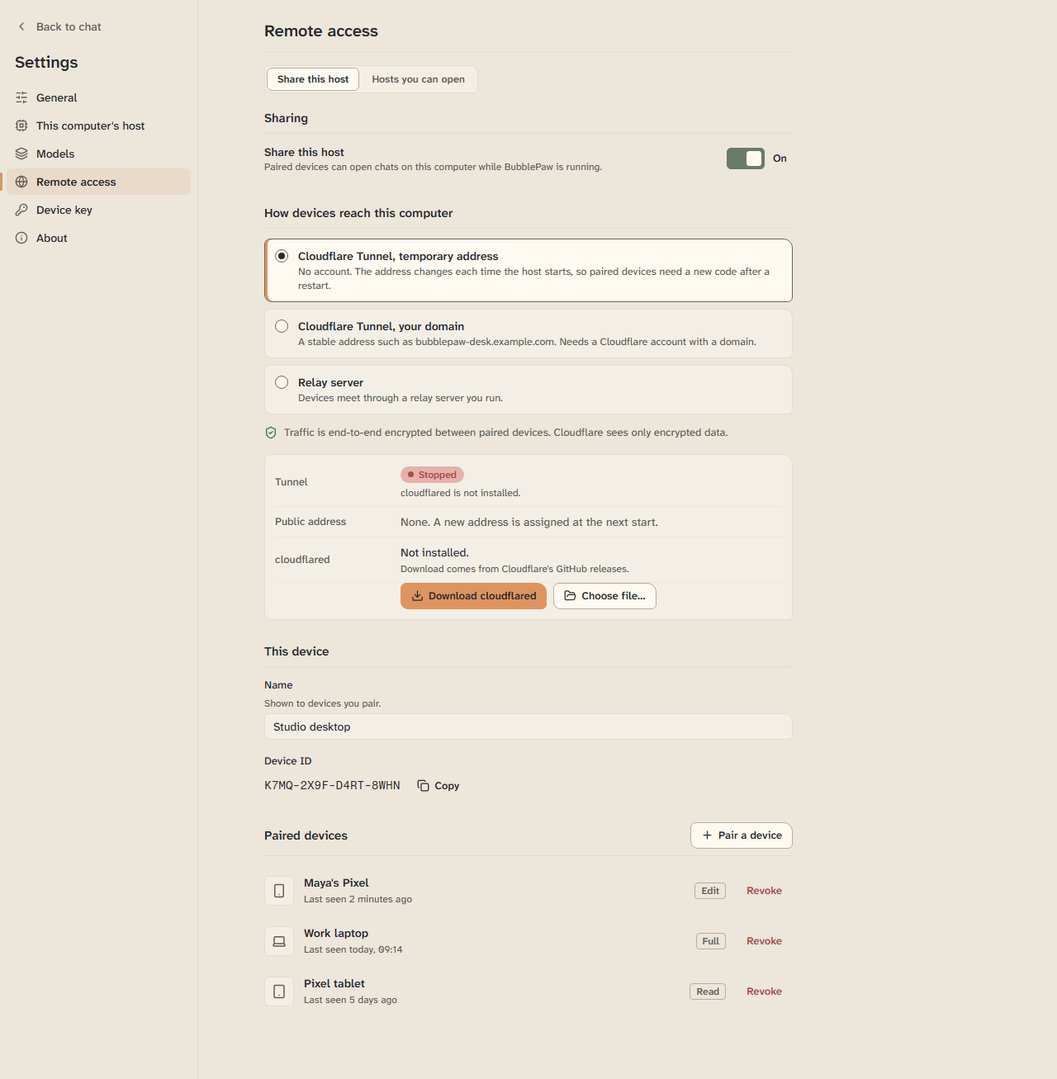
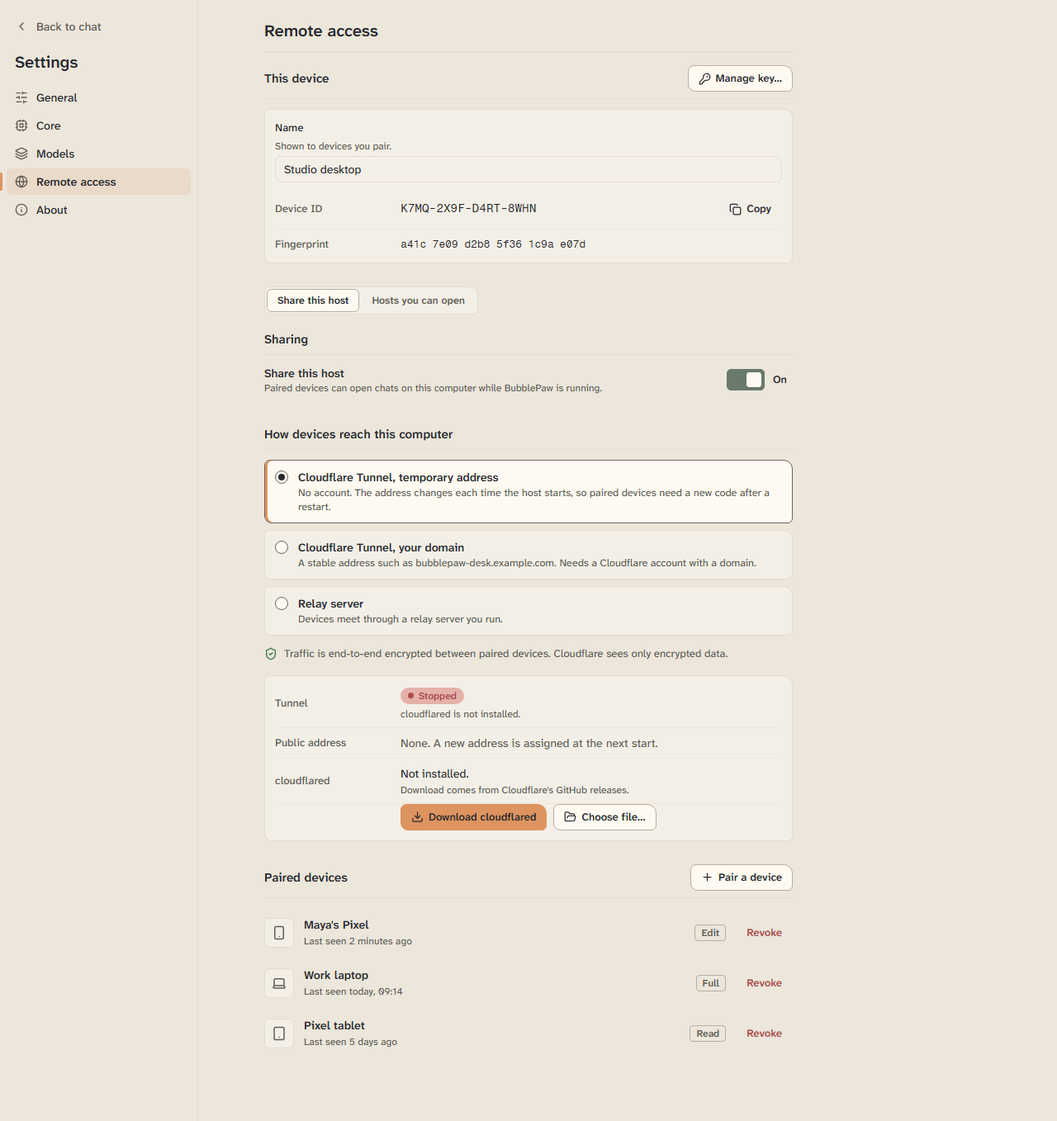
Mockups: review revision (models, core, key under remote access, licences) and phone chats push navigation

diff --git a/design/remote-and-settings/app.js b/design/remote-and-settings/app.js
@@ -10,8 +10,8 @@
     const [k, v] = kv.split('=');
     if (k && v !== undefined) H[k] = decodeURIComponent(v);
   });
-  const S = Object.assign({ screen: 'settings', size: 'desktop', page: 'general', ppage: 'list', tab: 'share', still: '0', tall: '0', chrome: '1' },
-    ...['screen', 'size', 'page', 'ppage', 'tab', 'still', 'tall', 'chrome'].map((k) => (k in H ? { [k]: H[k] } : {})));
+  const S = Object.assign({ screen: 'settings', size: 'desktop', page: 'general', ppage: 'list', tab: 'share', sub: '', still: '0', tall: '0', chrome: '1' },
+    ...['screen', 'size', 'page', 'ppage', 'tab', 'sub', 'still', 'tall', 'chrome'].map((k) => (k in H ? { [k]: H[k] } : {})));
   const SCREENS = [
     ['settings', '1', 'Settings'], ['share', '2', 'Share this host'], ['pair', '3', 'Pairing, host'],
     ['add', '4', 'Pairing, phone'], ['phone', '5', 'Phone chat'], ['switcher', '6', 'Host switcher'],
@@ -29,8 +29,9 @@
 
   const M = {
     pref: H.theme || 'light', turn: 'closed', login: false,
-    f: { binary: '/opt/bubblepaw/bubblepaw', workspace: '/home/maya/projects/bubblepaw-base', data: '/home/maya/.local/share/bubblepaw-desktop/data', args: '', relay: 'wss://relay.example.com', hostname: 'bubblepaw-desk', zone: 'example.com', token: '', devname: 'Studio desktop', pairName: 'Pixel 8', addCode: '', pass1: '', pass2: '', keyFile: '', keySecret: '', apiKey: '' },
-    hostState: 'running', hostSaved: null,
+    f: { binary: '/opt/bubblepaw/bubblepaw', workspace: '/home/maya/projects/bubblepaw-base', data: '/home/maya/.local/share/bubblepaw-desktop/data', args: '', relay: 'wss://relay.example.com', hostname: 'bubblepaw-desk', zone: 'example.com', token: '', devname: 'Studio desktop', licq: '', pairName: 'Pixel 8', addCode: '', pass1: '', pass2: '', keyFile: '', keySecret: '', apiKey: '' },
+    hostState: 'running', hostSaved: null, coreMode: 'bundled', other: false, autoUpd: true, licOpen: new Set(),
+    u: { app: { cur: '0.1.0', latest: null, st: 'idle' }, core: { cur: '0.3.0', latest: null, st: 'idle' } },
     on: H.on !== '0', reach: H.reach || 'temp', cf: { signed: H.cf !== 'signedout' && H.cf !== 'token', tokenOpen: H.cf === 'token', busy: false, account: 'maya@example.com' },
     cfd: H.cfd !== 'missing', cfdBusy: false, upd: 'idle', ver: '2026.10.1',
     tunnel: H.tunnel === 'starting' ? 'starting' : 'connected', fail: H.tunnel === 'stopped', addr: { temp: 'tidy-violet-harbor-7f3a.trycloudflare.com' },
@@ -51,7 +52,7 @@
     ],
     def: 'deepseek-v4.1-flash',
     dlg: null, add: { step: 1 }, addDone: false, back: 'phone',
-    sheet: H.sheet !== '0', sw: H.sw !== '0', pop: H.pop !== '0', dsel: { h: 'local', w: 'bubblepaw-base' }, active: 'h1', ws: 'bubblepaw-base',
+    pview: H.pview === 'chat' ? 'chat' : 'list', sheet: H.sheet === '1', sw: H.sw !== '0', pop: H.pop !== '0', dsel: { h: 'local', w: 'bubblepaw-base' }, active: H.active || 'h1', ws: 'bubblepaw-base',
     fail2: false,
   };
   if (S.screen === 'pair') M.dlg = { type: 'pair', step: +(H.step || 1), left: 292, code: 'K7M2Q-9XFD4', prof: 'edit' };
@@ -94,14 +95,14 @@
 
   /* ---------- settings pages ---------- */
   const NAV = [
-    ['general', 'General', 'sliders-horizontal', ''], ['host', "This computer's host", 'cpu', 'desktop'], ['models', 'Models', 'layers', ''],
-    ['remote', 'Remote access', 'globe', ''], ['key', 'Device key', 'key-round', ''], ['about', 'About', 'info', ''],
+    ['general', 'General', 'sliders-horizontal', ''], ['host', 'Core', 'cpu', 'desktop'], ['models', 'Models', 'layers', ''],
+    ['remote', 'Remote access', 'globe', ''], ['about', 'About', 'info', ''],
   ];
   const phoneSub = {
     general: () => ({ system: 'System theme', light: 'Light theme', dark: 'Dark theme' }[M.pref]),
     models: () => `Default ${M.def}`,
     remote: () => `${M.hosts.length} host${M.hosts.length === 1 ? '' : 's'}, ${M.hosts.filter((h) => h.online).length} online`,
-    key: () => `ID ${M.key.id}`, about: () => 'Version 0.1.0',
+    about: () => `BubblePaw ${M.u.app.cur}`,
   };
 
   function pageGeneral(p) {
@@ -111,26 +112,30 @@
       (p ? '' : sec('Startup', `<div class="rowline"><div class="grow"><div class="t">Open at login</div><div class="s">BubblePaw starts with this computer. Remote access only works while it is running.</div></div>${sw(M.login, 'Open at login', 'login')}</div>`));
   }
   function pageHost() {
-    const run = M.hostState === 'running';
-    return sec('BubblePaw host',
-      `<div class="rowline" style="padding-top:0"><div class="grow"><div class="t">Status</div><div class="s mono">bubblepaw 0.3.0 · protocol 0.1</div></div>${run ? pill('Running', 'ok') : pill('Restarting', 'attn')}${btn('Restart', { icon: 'refresh-cw', act: 'hostRestart', disabled: !run })}</div>` +
-      field('Binary', 'Path to the bubblepaw executable.', 'binary') + field('Workspace', 'The directory the agent works in.', 'workspace') +
-      field('Data directory', "Where this app's chats are stored. Do not share it with another BubblePaw host.", 'data') +
-      field('Extra host arguments', "Added to the host's command line, for example --provider demo. Optional.", 'args', { ph: 'None' }) +
-      `<div class="actions">${btn('Save and restart', { kind: 'primary', act: 'hostRestart', disabled: !run })}${btn('Cancel', { act: 'hostCancel' })}${M.hostSaved ? `<span class="hint">${M.hostSaved}</span>` : ''}</div>`);
+    const run = M.hostState === 'running', custom = M.coreMode === 'custom';
+    return sec('Core',
+      `<div class="rowline" style="padding-top:0"><div class="grow"><div class="t">Status</div><div class="s mono">bubblepaw ${M.u.core.cur} · protocol 0.1</div></div>${run ? pill('Running', 'ok') : pill('Restarting', 'attn')}${btn('Restart', { icon: 'refresh-cw', act: 'hostRestart', disabled: !run })}</div>`) +
+      sec('Binary',
+        `<div role="radiogroup" aria-label="Binary">
+          <button class="opt" role="radio" aria-checked="${!custom}" ${A('coreMode', 'bundled')}><span class="rd"></span><span><div class="t">Bundled with BubblePaw</div><div class="s">Version <span class="mono">${M.u.core.cur}</span>. It updates with the app.</div></span></button>
+          <button class="opt" role="radio" aria-checked="${custom}" ${A('coreMode', 'custom')}><span class="rd"></span><span><div class="t">Custom binary</div><div class="s">Run a bubblepaw executable you installed yourself.</div></span></button>
+          ${custom ? `<div class="subpanel"><div class="field"><label for="f-binary">Path to the bubblepaw executable</label><div class="affix"><input id="f-binary" class="input" data-k="binary" value="${M.f.binary}"><button class="btn suffixbtn" ${A('browse')}>${ic('folder-open', 15)}Browse…</button></div></div></div>` : ''}</div>`) +
+      sec('Settings',
+        field('Data directory', "Where this app's chats are stored. Do not share it with another BubblePaw host.", 'data') +
+        field('Extra arguments', "Added to the host's command line, for example --provider demo. Optional.", 'args', { ph: 'None' }) +
+        `<div class="actions">${btn('Save and restart', { kind: 'primary', act: 'hostRestart', disabled: !run })}${btn('Cancel', { act: 'hostCancel' })}${M.hostSaved ? `<span class="hint">${M.hostSaved}</span>` : ''}</div>`);
   }
   function pageModels() {
-    const prov = M.providers.map((p) => {
-      const rows = p.models.map((m) => `<div class="rowline"><div class="grow mono" style="font-size:13.6px">${m}</div>${M.def === m ? `<span class="pill ok">Default</span>` : btn('Make default', { act: 'def', arg: m, disabled: !p.key })}</div>`).join('');
-      return `<div style="margin-bottom:16px"><div class="rowline" style="border:0;padding-bottom:2px"><div class="grow"><span class="t">${p.name}</span> <span class="mono muted" style="font-size:12px">${p.kind}</span> ${p.key ? '' : pill('Key missing', 'attn')}</div>${btn(p.key ? 'Edit key' : 'Add key', { act: 'keyDlg', arg: p.name })}</div>
-        <div class="hint mono" style="margin-bottom:4px">${p.url}</div>${p.key ? '' : '<div class="hint">The host did not find a key for this provider. Add a key to use its models.</div>'}${rows}</div>`;
+    const cards = M.providers.map((p) => {
+      const rows = p.models.map((m) => `<div class="mrow"><div class="grow mono" style="font-size:13.6px">${m}</div><div class="mcol">${M.def === m ? pill('Default', 'ok') : `<button class="btn quiet mk" ${A('def', m)} ${p.key ? '' : 'disabled'}>Make default</button>`}</div></div>`).join('');
+      return `<div class="pcard"><div class="pcard-h"><div class="grow"><div><span class="t">${p.name}</span> <span class="mono muted" style="font-size:12px">${p.kind}</span></div><div class="hint mono">${p.url}</div>${p.key ? '' : '<div class="hint">Add a key to use these models.</div>'}</div>${p.key ? pill('Key set', 'ok') : pill('No key', 'attn')}${btn(p.key ? 'Edit key' : 'Add key', { act: 'keyDlg', arg: p.name })}</div>${rows}</div>`;
     }).join('');
-    return sec('Default model', `<div class="field"><div class="hint">New runs in every chat use this model. A run in progress keeps its own.</div><div class="mono" style="font-size:15px">${M.def}</div></div>`) + sec('Providers', prov);
+    return sec('Default model', `<div class="field"><div class="hint">New runs in every chat use this model. A run in progress keeps its own.</div><div class="mono" style="font-size:15px">${M.def}</div></div>`) + sec('Providers', cards);
   }
   function pageKey() {
     const n = M.devices.length, hn = M.hosts.length;
     const cons = n + hn ? `All ${n} paired device${n === 1 ? '' : 's'} and ${hn} host${hn === 1 ? '' : 's'} you can open stop recognising this device, and each pairing has to be done again.` : 'This device has no pairings yet, so nothing else breaks.';
-    return sec('This device',
+    return sec('Current key',
       `<div class="card"><div class="kv"><span class="k">Device ID</span><span class="v mono">${M.key.id}</span>${btn('Copy', { icon: 'copy', cls: 'quiet', act: 'copy' })}</div>
         <div class="kv"><span class="k">Fingerprint</span><span class="v mono" style="font-size:12.5px">${M.key.fp}</span><span></span></div></div>`) +
       sec('Key file',
@@ -138,9 +143,61 @@
          <div class="rowline"><div class="grow"><div class="t">Import key file</div><div class="s">Replaces this device's key. Existing pairings stop working.</div></div>${btn('Import…', { icon: 'folder-open', act: 'dlg', arg: 'import' })}</div>`) +
       sec('Regenerate', `<div class="notice danger">${ic('circle-alert', 16)}<div>Regenerating creates a new device ID. ${cons}</div></div>${btn('Regenerate device key…', { kind: 'danger', icon: 'trash-2', act: 'dlg', arg: 'regen' })}`);
   }
+  function deviceCard() {
+    return sec('This device', `<div class="card" style="padding-top:12px">${field('Name', 'Shown to devices you pair.', 'devname', { sans: true })}
+      <div class="kv" style="padding-top:0"><span class="k">Device ID</span><span class="v mono">${M.key.id}</span>${btn('Copy', { icon: 'copy', cls: 'quiet', act: 'copy' })}</div>
+      <div class="kv"><span class="k">Fingerprint</span><span class="v mono" style="font-size:12.5px">${M.key.fp}</span><span></span></div></div>`, btn('Manage key…', { icon: 'key-round', act: 'sub', arg: 'key' }));
+  }
+  const backRow = (label) => (ph() ? '' : `<div style="margin-bottom:16px">${btn(label, { icon: 'chevron-left', cls: 'quiet', act: 'subBack' })}</div>`);
+
+  /* About: updates */
+  function updRow(k) {
+    const u = M.u[k], label = k === 'app' ? 'BubblePaw' : 'Core';
+    if (k === 'core' && M.coreMode === 'bundled') {
+      return `<div class="rowline"><div class="grow"><div class="t">${label} <span class="mono muted" style="font-weight:400">${u.cur}</span></div><div class="s">Bundled with BubblePaw. It updates with the app.</div></div></div>`;
+    }
+    let status;
+    if (u.st === 'idle') status = 'Latest version not checked.';
+    else if (u.st === 'checking') status = `${ic('loader', 13, 'spin')} Checking GitHub releases…`;
+    else if (u.st === 'updating') status = `${ic('loader', 13, 'spin')} Updating to ${u.latest}…`;
+    else if (u.st === 'updated') status = `Updated to ${u.cur}. ${k === 'app' ? 'Restart BubblePaw to finish.' : 'Restart Core to use it.'}`;
+    else status = u.latest === u.cur ? 'Up to date.' : `Latest version <span class="mono">${u.latest}</span>.`;
+    const newer = u.latest && u.latest !== u.cur && u.st === 'checked';
+    const busy = u.st === 'checking' || u.st === 'updating';
+    return `<div class="rowline"><div class="grow"><div class="t">${label} <span class="mono muted" style="font-weight:400">${u.cur}</span></div><div class="s">${status}</div></div>${btn('Check for updates', { act: 'chk', arg: k, disabled: busy })}${newer ? btn(`Update to ${u.latest}`, { kind: 'primary', act: 'upg', arg: k }) : ''}</div>`;
+  }
   function pageAbout() {
-    return sec('Versions', `<div class="card"><div class="kv"><span class="k">BubblePaw</span><span class="v mono">0.1.0+1</span><span></span></div><div class="kv"><span class="k">Agent kit</span><span class="v mono">v0.15.7</span><span></span></div><div class="kv"><span class="k">Host</span><span class="v mono">bubblepaw 0.3.0</span><span></span></div><div class="kv"><span class="k">Protocol</span><span class="v mono">0.1</span><span></span></div></div>`) +
-      sec('Licences', `<div class="rowline"><div class="grow"><div class="t">Open source licences</div><div class="s">Fonts, icons and packages bundled with this app.</div></div>${btn('View', { icon: 'chevron-right', act: 'dlg', arg: 'licences' })}</div>`);
+    if (S.sub === 'licences') return backRow('About') + pageLicences();
+    return sec('Updates',
+      `<div class="rowline" style="padding-top:0"><div class="grow"><div class="t">Check for updates automatically</div><div class="s">Looks at GitHub releases when BubblePaw starts.</div></div>${sw(M.autoUpd, 'Check for updates automatically', 'autoUpd')}</div>${updRow('app')}${updRow('core')}`) +
+      sec('Versions', `<div class="card"><div class="kv"><span class="k">Agent kit</span><span class="v mono">v0.15.7</span><span></span></div><div class="kv"><span class="k">Protocol</span><span class="v mono">0.1</span><span></span></div></div>`) +
+      sec('Licences', `<div class="rowline"><div class="grow"><div class="t">Open source licences</div><div class="s">Packages, crates, fonts and icons bundled with this app.</div></div>${btn('View', { icon: 'chevron-right', act: 'sub', arg: 'licences' })}</div>`);
+  }
+
+  /* Licences. Sample entries only: the real list is generated at build time
+     (Flutter's LicenseRegistry for the app packages and fonts, cargo-about for the Core crates). */
+  const T_BSD3 = (c) => `${c}\n\nRedistribution and use in source and binary forms, with or without modification, are permitted provided that the following conditions are met:\n\n1. Redistributions of source code must retain the above copyright notice, this list of conditions and the following disclaimer.\n2. Redistributions in binary form must reproduce the above copyright notice, this list of conditions and the following disclaimer in the documentation and/or other materials provided with the distribution.\n3. Neither the name of the copyright holder nor the names of its contributors may be used to endorse or promote products derived from this software without specific prior written permission.\n\nTHIS SOFTWARE IS PROVIDED BY THE COPYRIGHT HOLDERS AND CONTRIBUTORS "AS IS" AND ANY EXPRESS OR IMPLIED WARRANTIES ARE DISCLAIMED. See the full text in the package.`;
+  const T_MIT = (c) => `${c}\n\nPermission is hereby granted, free of charge, to any person obtaining a copy of this software and associated documentation files (the "Software"), to deal in the Software without restriction, including without limitation the rights to use, copy, modify, merge, publish, distribute, sublicense, and/or sell copies of the Software, and to permit persons to whom the Software is furnished to do so, subject to the following conditions:\n\nThe above copyright notice and this permission notice shall be included in all copies or substantial portions of the Software.\n\nTHE SOFTWARE IS PROVIDED "AS IS", WITHOUT WARRANTY OF ANY KIND.`;
+  const T_OFL = (c) => `${c}\n\nThis Font Software is licensed under the SIL Open Font License, Version 1.1. This license is copied below, and is also available with a FAQ at https://openfontlicense.org\n\nPREAMBLE: The goals of the Open Font License (OFL) are to stimulate worldwide development of collaborative font projects, to support the font creation efforts of academic and linguistic communities, and to provide a free and open framework in which fonts may be shared and improved in partnership with others. See the full text in fonts/licenses.`;
+  const T_ISC = 'ISC License\n\nCopyright (c) for portions of Lucide are held by Cole Bemis 2013-2022 as part of Feather (MIT). All other copyright (c) for Lucide are held by Lucide Contributors 2022.\n\nPermission to use, copy, modify, and/or distribute this software for any purpose with or without fee is hereby granted, provided that the above copyright notice and this permission notice appear in all copies.\n\nTHE SOFTWARE IS PROVIDED "AS IS" AND THE AUTHOR DISCLAIMS ALL WARRANTIES WITH REGARD TO THIS SOFTWARE.';
+  const T_DUAL = (c) => `${c}\n\nLicensed under either of\n  Apache License, Version 2.0 (LICENSE-APACHE or http://www.apache.org/licenses/LICENSE-2.0)\n  MIT license (LICENSE-MIT or http://opensource.org/licenses/MIT)\nat your option.`;
+  const LICS = [
+    ['App packages', [['flutter', '3.41.0', 'BSD-3-Clause', T_BSD3('Copyright 2014 The Flutter Authors. All rights reserved.')], ['file_selector', '1.1.0', 'BSD-3-Clause', T_BSD3('Copyright 2013 The Flutter Authors. All rights reserved.')]]],
+    ['Core crates', [['snow', '0.9.6', 'Apache-2.0 OR MIT', T_DUAL('Copyright the snow contributors.')], ['serde', '1.0.219', 'Apache-2.0 OR MIT', T_DUAL('Copyright the serde contributors.')], ['rusqlite', '0.32.1', 'MIT', T_MIT('Copyright (c) the rusqlite contributors.')], ['tokio', '1.44.0', 'MIT', T_MIT('Copyright (c) Tokio Contributors.')]]],
+    ['Fonts', [['Atkinson Hyperlegible Next', '1.0', 'OFL-1.1', T_OFL('Copyright 2020 Braille Institute of America, Inc.')], ['Fragment Mono', '1.0', 'OFL-1.1', T_OFL('Copyright 2023 The Fragment Mono Project Authors.')], ['Bricolage Grotesque', '1.0', 'OFL-1.1', T_OFL('Copyright 2022 The Bricolage Grotesque Project Authors.')]]],
+    ['Icons', [['Lucide', '0.468.0', 'ISC', T_ISC]]],
+  ];
+  function pageLicences() {
+    const q = M.f.licq.trim().toLowerCase();
+    const groups = LICS.map(([g, items]) => {
+      const rows = items.filter(([n, v, l]) => !q || (n + ' ' + l + ' ' + g).toLowerCase().includes(q));
+      if (!rows.length) return '';
+      return `<section class="sec"><h2><span>${g}</span><span class="muted mono" style="font-size:12px;font-weight:400">${rows.length}</span></h2>${rows.map(([n, v, l, t]) => {
+        const id = g + '/' + n, open = M.licOpen.has(id);
+        return `<div class="lic"><button class="lic-h" aria-expanded="${open}" ${A('licToggle', id)}><span class="grow"><span class="t">${n}</span> <span class="mono muted" style="font-size:12px">${v}</span></span><span class="tag">${l}</span>${ic(open ? 'chevron-up' : 'chevron-down', 16)}</button>${open ? `<pre class="lictext">${t.replace(/&/g, '&amp;').replace(/</g, '&lt;')}</pre>` : ''}</div>`;
+      }).join('')}</section>`;
+    }).join('');
+    return `<div class="field"><label for="f-licq">Search</label><input id="f-licq" class="input sans" data-k="licq" value="${M.f.licq.replace(/"/g, '&quot;')}" placeholder="Package or licence"></div>${groups || '<div class="empty">No package or licence matches the search.</div>'}`;
   }
 
   function hostsList(p) {
@@ -198,31 +255,32 @@
     const opts = REACH.map(([v, ti, s]) => `<button class="opt" role="radio" aria-checked="${M.reach === v}" ${A('reach', v)}><span class="rd"></span><span><div class="t">${ti}</div><div class="s">${s}</div></span></button>` +
       (M.reach === v && v === 'domain' ? domainPanel() : '') +
       (M.reach === v && v === 'relay' ? `<div class="subpanel">${field('Relay address', '', 'relay')}</div>` : '')).join('');
-    return sec('Sharing', `<div class="rowline" style="padding-top:0"><div class="grow"><div class="t">Share this host</div><div class="s">${M.on ? 'Paired devices can open chats on this computer while BubblePaw is running.' : 'Nobody can reach this computer. Paired devices stay paired.'}</div></div>${sw(M.on, 'Share this host', 'on')}</div>`) +
+    return sec('Sharing', `<div class="rowline" style="padding-top:0"><div class="grow"><div class="t">Share this host</div><div class="s">${M.on ? 'Paired devices can open chats on this computer while BubblePaw is running.' : 'Nobody can reach this computer. Paired devices stay paired.'}</div></div>${sw(M.on, 'Share this host', 'on')}</div>${M.on && M.other ? `<div class="notice info">${ic('info', 16)}<div>Another BubblePaw host on this computer is already shared: device ID <span class="mono">T4WK-9HDB-2QXN-6MRE</span>, data directory <span class="mono">/var/lib/bubblepaw/data</span>. Devices paired with it can't open this app's chats.</div></div>` : ''}`) +
       sec('How devices reach this computer', `<div role="radiogroup" aria-label="How devices reach this computer">${opts}</div>
         <div class="consequence">${ic('shield-check', 16)}<span>${M.reach === 'relay' ? 'Traffic is end-to-end encrypted between paired devices. The relay sees only encrypted data.' : 'Traffic is end-to-end encrypted between paired devices. Cloudflare sees only encrypted data.'}</span></div>${statusBlock()}`) +
-      sec('This device', field('Name', 'Shown to devices you pair.', 'devname', { sans: true }) + `<div class="field"><label>Device ID</label><div class="actions"><span class="mono" style="font-size:14px">${M.key.id}</span>${btn('Copy', { icon: 'copy', cls: 'quiet', act: 'copy' })}</div></div>`) +
       sec('Paired devices', devRows(), btn('Pair a device', { kind: t.s !== 'stopped' ? 'primary' : '', icon: 'plus', act: 'startPair', disabled: !M.on }));
   }
   function pageRemote(p) {
-    if (p) return hostsList(true);
-    return `<div style="margin-bottom:20px">${seg([['share', 'Share this host'], ['hosts', 'Hosts you can open']], S.tab, 'tab')}</div>` + (S.tab === 'hosts' ? hostsList(false) : pageShare());
+    if (S.sub === 'key') return backRow('Remote access') + pageKey();
+    if (p) return deviceCard() + hostsList(true);
+    return deviceCard() + `<div style="margin-bottom:20px">${seg([['share', 'Share this host'], ['hosts', 'Hosts you can open']], S.tab, 'tab')}</div>` + (S.tab === 'hosts' ? hostsList(false) : pageShare());
   }
-  const pageBody = (p, phn) => ({ general: pageGeneral, host: pageHost, models: pageModels, remote: pageRemote, key: pageKey, about: pageAbout }[p])(phn);
+  const pageBody = (p, phn) => ({ general: pageGeneral, host: pageHost, models: pageModels, remote: pageRemote, about: pageAbout }[p])(phn);
 
+  const subTitle = () => (S.sub === 'key' ? 'Device key' : S.sub === 'licences' ? 'Licences' : '');
   function settingsDesktop() {
     const nav = NAV.map(([id, label, icon]) => `<button class="nav-item" ${S.page === id ? 'aria-current="page"' : ''} ${A('page', id)}>${ic(icon, 16)}${label}</button>`).join('');
     return `<div class="set-desk"><nav class="set-nav" aria-label="Settings"><button class="nav-item back" ${A('toChat')}>${ic('chevron-left', 16)}Back to chat</button><h1>Settings</h1>${nav}</nav>
-      <div class="set-main"><div class="set-col"><h1 class="pt">${NAV.find((n) => n[0] === S.page)[1]}</h1>${pageBody(S.page, false)}</div></div></div>`;
+      <div class="set-main"><div class="set-col"><h1 class="pt">${subTitle() || NAV.find((n) => n[0] === S.page)[1]}</h1>${pageBody(S.page, false)}</div></div></div>`;
   }
   function settingsPhone() {
     const p = S.ppage;
-    const head = (title, back) => `<div class="statusgap"></div><div class="phone-head"><button class="iconbtn" aria-label="${back ? 'Back to settings' : 'Back to chat'}" ${back ? A('ppage', 'list') : A('toChat')}>${ic('chevron-left', 22)}</button><h1>${title}</h1></div>`;
+    const head = (title, back) => `<div class="statusgap"></div><div class="phone-head"><button class="iconbtn" aria-label="${back ? (S.sub ? 'Back' : 'Back to settings') : 'Back to chat'}" ${back ? (S.sub ? A('subBack') : A('ppage', 'list')) : A('toChat')}>${ic('chevron-left', 22)}</button><h1>${title}</h1></div>`;
     if (p === 'list') {
       const rows = NAV.filter((n) => n[3] !== 'desktop').map(([id, label, icon]) => `<button class="nav-row" ${A('ppage', id)}>${ic(icon, 20)}<span class="grow"><div class="t">${label}</div><div class="s">${phoneSub[id]()}</div></span>${ic('chevron-right', 18)}</button>`).join('');
       return `<div class="phone-col">${head('Settings', false)}<div class="phone-body" style="padding-top:8px">${rows}</div><div class="homebar"></div></div>`;
     }
-    return `<div class="phone-col">${head(NAV.find((n) => n[0] === p)[1], true)}<div class="phone-body">${pageBody(p, true)}</div><div class="homebar"></div></div>`;
+    return `<div class="phone-col">${head(subTitle() || NAV.find((n) => n[0] === p)[1], true)}<div class="phone-body">${pageBody(p, true)}</div><div class="homebar"></div></div>`;
   }
 
   /* ---------- dialogs ---------- */
@@ -310,7 +368,6 @@
       const p = M.providers.find((v) => v.name === d.name);
       return dlgShell(`${p.key ? 'Edit' : 'Add'} key for ${p.name}`, field('API key', 'Stored on the host that runs this provider.', 'apiKey', { type: 'password' }), `${btn('Cancel', { act: 'close' })}${btn('Save key', { kind: 'primary', act: 'doKey', disabled: !M.f.apiKey.trim() })}`);
     }
-    if (d.type === 'licences') return dlgShell('Open source licences', `<div class="card"><div class="kv"><span class="k">Atkinson Hyperlegible Next</span><span class="v">SIL OFL 1.1</span><span></span></div><div class="kv"><span class="k">Fragment Mono</span><span class="v">SIL OFL 1.1</span><span></span></div><div class="kv"><span class="k">Lucide icons</span><span class="v">ISC</span><span></span></div></div>`, btn('Close', { act: 'close' }));
     return '';
   }
   function pageKeyCons() {
@@ -343,18 +400,25 @@
   const activeHost = () => M.hosts.find((h) => h.id === M.active);
   function phoneChat() {
     const ah = activeHost();
-    const chats = ah ? `<div class="rail-label">Today</div><button class="chatrow on"><div class="t">Quota bar flickers on reconnect</div><div class="s">Waiting for you</div></button><button class="chatrow"><div class="t">Plan the settings page</div><div class="s plain">Finished 2h ago</div></button>` : '';
+    const offline = ah && !ah.online;
+    const status = ah ? (ah.online ? `<span class="on">${dotOn} Online</span>` : '<span class="off"><span class="dot off"></span> Offline</span>') : '';
+    const frameOpen = (inner) => `<div class="phone-col ${M.sheet ? 'show-sheet' : ''}" style="position:relative"><div class="statusgap"></div>${inner}</div>`;
+    if (M.pview === 'chat') {
+      return frameOpen(`<div class="main"><div class="topbar">${iconBtn('chevron-left', 'Back to chats', 'pview', 'list')}<div class="two"><div class="ct">Quota bar flickers on reconnect</div><div class="sub"><span>${ah ? ah.name : 'No host'}</span>${status}</div></div></div>
+        <div class="stream">${transcript(true)}</div>${composer(true, ah && ah.name)}</div>`);
+    }
+    const row = (t, s, plain) => `<button class="chatrow" ${A('pview', 'chat')}><div class="t">${t}</div><div class="s ${plain ? 'plain' : ''}">${s}</div></button>`;
+    const chats = ah ? `<div class="rail-label">Today</div>${row('Quota bar flickers on reconnect', 'Waiting for you', false)}${row('Plan the settings page', 'Finished 2h ago', true)}<div class="rail-label">Yesterday</div>${row('Trace the socket reconnect', 'Finished yesterday', true)}` : '<div class="empty">No host selected. Open the host menu and add a host to see its chats.</div>';
     const wsRow = (n) => `<button class="ws ${M.ws === n ? 'on' : ''}" ${A('setWs', n)}>${n}${M.ws === n ? `<span class="ck">${ic('check', 16)}</span>` : ''}</button>`;
-    const items = M.hosts.map((h) => `<div class="host-item"><button class="host-line" ${h.online ? A('setHost', h.id) : 'disabled'}>${ic('monitor', 18)}<span class="two"><div class="t">${h.name}</div><div class="s">${h.online ? `${dotOn}Online · ${h.type}` : `<span class="dot off"></span>Offline${h.seen ? ' · ' + h.seen.replace('last seen', 'last seen') : ''}`}</div></span></button>${h.online && M.active === h.id ? wsRow('bubblepaw-base') + wsRow('scratch') : ''}</div>`).join('');
-    const hostlist = M.sw ? `<div class="hostlist" role="menu">${items}<div class="host-item"><button class="host-line" ${A('startAdd')} style="min-height:48px">${ic('plus', 18)}<span class="two"><div class="t">Add a host</div></span></button></div></div>` : '';
-    return `<div class="phone-col ${M.sheet ? 'show-sheet' : ''}" style="position:relative"><div class="statusgap"></div>
-      <div class="main"><div class="topbar">${iconBtn('menu', 'Open the chat list', 'sheet', 1)}<div class="two"><div class="ct">${ah ? 'Quota bar flickers on reconnect' : 'No host selected'}</div><div class="sub"><span>${ah ? ah.name : 'No host'}</span>${ah ? `<span class="on">${dotOn} Online</span>` : ''}</div></div>${iconBtn('panel-left', 'More')}</div>
-        <div class="stream">${transcript(true)}</div>${composer(true, ah && ah.name)}</div>
+    const items = M.hosts.map((h) => `<div class="host-item"><button class="host-line" ${A('setHost', h.id)}>${ic('monitor', 18)}<span class="two"><div class="t">${h.name}</div><div class="s">${h.online ? `${dotOn}Online · ${h.type}` : `<span class="dot off"></span>Offline${h.seen ? ' · ' + h.seen : ''}`}</div></span>${M.active === h.id ? `<span class="ck">${ic('check', 16)}</span>` : ''}</button>${M.active === h.id ? (h.online ? wsRow('bubblepaw-base') + wsRow('scratch') : '<div class="s" style="padding:0 12px 10px 40px;color:var(--muted);font-size:13px">Offline. Workspaces are unavailable.</div>') : ''}</div>`).join('');
+    const hb = `<button class="hostbtn" aria-haspopup="dialog" ${A('sheet', 1)} style="min-height:48px"><span class="two"><div class="h">${ah ? (ah.online ? `${dotOn} ${ah.name} · Online` : `<span class="dot off"></span> ${ah.name} · Offline`) : 'No host'}</div><div class="w">${ah ? M.ws : 'Add a host'}</div></span>${ic('chevron-down', 16)}</button>`;
+    return frameOpen(`<div class="main"><div class="topbar" style="gap:4px">${hb}${iconBtn('settings', 'Settings', 'toSettings')}</div>
+      <div class="phone-body" style="padding:8px 8px 12px">
+        ${offline ? `<div class="notice" style="margin:4px 8px 12px">${ic('wifi-off', 16)}<div>${ah.name} is offline. ${ah.seen ? ah.seen.charAt(0).toUpperCase() + ah.seen.slice(1) + '. ' : ''}You can start a new chat when it is back online.</div></div>` : ''}
+        <div class="rail-search" style="min-height:44px">${ic('search', 16)}Search</div>${chats}</div>
+      <div class="newbar">${btn('New chat', { kind: 'primary', icon: 'square-pen', cls: 'block', act: 'pview', arg: 'chat', disabled: !ah || offline })}<div class="homebar"></div></div></div>
       <div class="scrim" ${A('sheet', 0)}></div>
-      <aside class="sheet" aria-label="Chats and hosts"><div class="statusgap"></div>
-        <div class="rail-head"><button class="hostbtn" aria-expanded="${M.sw}" ${A('sw')} style="min-height:52px"><span class="two"><div class="h">${ah ? `${dotOn} ${ah.name} · Online` : 'No host'}</div><div class="w">${ah ? M.ws : 'Add a host'}</div></span>${ic(M.sw ? 'chevron-up' : 'chevron-down', 16)}</button>${iconBtn('x', 'Close the chat list', 'sheet', 0)}</div>
-        ${hostlist}<div class="rail-search" style="min-height:44px">${ic('search', 16)}Search</div>${chats}
-        <div class="rail-foot" style="padding-bottom:34px"><button class="btn" ${A('toSettings')}>${ic('settings', 16)}Settings</button></div></aside></div>`;
+      <aside class="bsheet" role="dialog" aria-label="Hosts and workspaces"><div class="bsheet-h"><span class="t">Hosts and workspaces</span>${iconBtn('x', 'Close', 'sheet', 0)}</div><div class="hostlist" style="margin:0 12px 8px">${items}<div class="host-item"><button class="host-line" ${A('startAdd')} style="min-height:48px">${ic('plus', 18)}<span class="two"><div class="t">Add a host</div></span></button></div></div><div style="height:34px"></div></aside>`);
   }
   function desktopChat() {
     const sel = M.dsel;
@@ -390,7 +454,7 @@
     const chip = (act, arg, label, on, dis) => `<button class="chip" aria-pressed="${on}" ${A(act, arg)} ${dis ? 'disabled' : ''}>${label}</button>`;
     const grp = (lbl, items) => `<span class="chips"><span class="lbl">${lbl}</span>${items.join('')}</span>`;
     const fixed = FIXED[S.screen];
-    const sim = (S.page === 'remote' && S.tab === 'share' && !ph() && (S.screen === 'settings' || S.screen === 'share' || S.screen === 'pair')) ? grp('Simulate', [chip('simfail', 1, 'Tunnel failure', M.fail)]) : '';
+    const sim = (S.page === 'remote' && S.tab === 'share' && !ph() && (S.screen === 'settings' || S.screen === 'share' || S.screen === 'pair')) ? grp('Simulate', [chip('simfail', 1, 'Tunnel failure', M.fail), chip('simother', 1, 'Other host shared', M.other)]) : '';
     return `<div class="bar-row"><div class="tabs" role="tablist" aria-label="Screens">${scr}</div><span class="grow"></span>
       ${grp('Theme', [['light', 'Light'], ['dark', 'Dark']].map(([v, l]) => chip('pref', v, l, M.pref === v)))}
       ${grp('Frame', [['desktop', 'Desktop 1280×800'], ['phone', 'Phone 390×844']].map(([v, l]) => chip('size', v, l, (fixed || S.size) === v, !!fixed)))}</div>
@@ -470,25 +534,34 @@
     if (id === 'settings') { S.page = 'general'; S.ppage = 'list'; }
     if (id === 'share' || id === 'pair') { S.size = 'desktop'; S.page = 'remote'; S.tab = 'share'; S.screen = 'settings'; if (id === 'pair') M.dlg = { type: 'pair', step: 1, left: 300, code: rnd(5) + '-' + rnd(5), prof: 'edit' }; }
     if (id === 'add') { M.add = { step: 1 }; M.addDone = false; M.f.addCode = ''; S.size = 'phone'; }
-    if (id === 'phone') { M.sheet = true; S.size = 'phone'; }
+    if (id === 'phone') { M.sheet = false; M.pview = 'list'; S.size = 'phone'; }
     if (id === 'switcher') { M.pop = true; S.size = 'desktop'; }
   };
 
   const ACT = {
     tab: (v) => goTab(v),
-    page: (v) => { S.page = v; },
-    ppage: (v) => { S.ppage = v; },
+    page: (v) => { S.page = v; S.sub = ''; },
+    ppage: (v) => { S.ppage = v; S.sub = ''; },
+    sub: (v) => { S.sub = v; M.f.licq = ''; },
+    subBack: () => { S.sub = ''; },
+    coreMode: (v) => { M.coreMode = v; },
+    browse: () => { M.f.binary = '/usr/local/bin/bubblepaw'; },
+    autoUpd: () => { M.autoUpd = !M.autoUpd; },
+    chk: (k) => { M.u[k].st = 'checking'; later(() => { M.u[k].st = 'checked'; M.u[k].latest = k === 'app' ? '0.2.0' : '0.3.1'; }, 1200); },
+    upg: (k) => { M.u[k].st = 'updating'; later(() => { const u = M.u[k]; u.cur = u.latest; u.st = 'updated'; if (k === 'app' && M.coreMode === 'bundled') M.u.core.cur = '0.3.1'; }, 1400); },
+    licToggle: (v) => { if (M.licOpen.has(v)) M.licOpen.delete(v); else M.licOpen.add(v); },
+    simother: () => { M.other = !M.other; },
     tab2: (v) => { S.tab = v; },
     pref: (v) => { M.pref = v; },
     turn: (v) => { M.turn = v; },
     login: () => { M.login = !M.login; },
     size: (v) => { S.size = v; M.dlg = null; },
-    toChat: () => { if (ph()) { S.screen = 'phone'; M.sheet = false; } else { S.screen = 'switcher'; M.pop = false; } },
+    toChat: () => { if (ph()) { S.screen = 'phone'; M.sheet = false; M.pview = 'list'; } else { S.screen = 'switcher'; M.pop = false; } },
     toSettings: () => { S.size = ph() ? 'phone' : 'desktop'; S.screen = 'settings'; if (!ph()) S.page = 'general'; else S.ppage = 'list'; },
     close: () => { if (M.dlg && M.dlg.type === 'add') M.add = { step: 1 }; if (S.screen === 'add' && !M.dlg) { S.screen = M.back; M.add = { step: 1 }; M.addDone = false; if (M.back === 'settings') S.ppage = 'remote'; } M.dlg = null; },
     scrimClose: () => {},
     hostRestart: () => { M.hostState = 'restarting'; M.hostSaved = ''; later(() => { M.hostState = 'running'; M.hostSaved = 'Host restarted with the saved settings.'; }, 1200); },
-    hostCancel: () => { M.hostSaved = ''; M.f.binary = '/opt/bubblepaw/bubblepaw'; M.f.workspace = '/home/maya/projects/bubblepaw-base'; M.f.data = '/home/maya/.local/share/bubblepaw-desktop/data'; M.f.args = ''; },
+    hostCancel: () => { M.hostSaved = ''; M.coreMode = 'bundled'; M.f.binary = '/opt/bubblepaw/bubblepaw'; M.f.data = '/home/maya/.local/share/bubblepaw-desktop/data'; M.f.args = ''; },
     def: (v) => { M.def = v; },
     keyDlg: (v) => { M.f.apiKey = ''; openDlg({ type: 'key', name: v }); },
     doKey: () => { M.providers.find((x) => x.name === M.dlg.name).key = true; M.dlg = null; },
@@ -523,10 +596,11 @@
     scan: () => { M.f.addCode = 'K7M2Q9XFD4'; M.add.step = 2; },
     connect: () => { M.add.step = 2; },
     addBack: () => { M.add.step = 1; },
-    addOpen: () => { const h = M.hosts[M.hosts.length - 1]; M.active = h.id; S.screen = 'phone'; M.sheet = false; M.add = { step: 1 }; M.addDone = false; },
+    addOpen: () => { const h = M.hosts[M.hosts.length - 1]; M.active = h.id; S.screen = 'phone'; M.sheet = false; M.pview = 'list'; M.add = { step: 1 }; M.addDone = false; },
+    pview: (v) => { M.pview = v; },
     sheet: (v) => { M.sheet = v === undefined ? !M.sheet : !!+v; },
     sw: () => { M.sw = !M.sw; },
-    setHost: (v) => { M.active = v; },
+    setHost: (v) => { M.active = v; const h = M.hosts.find((x) => x.id === v); if (h && !h.online) M.sheet = false; },
     setWs: (v) => { M.ws = v; M.sheet = false; },
     pop: () => { M.pop = !M.pop; },
     dsel: (v) => { const [h, w] = v.split('|'); M.dsel = { h, w }; M.pop = false; },
@@ -553,13 +627,16 @@
     if (!k) return;
     M.f[k] = ev.target.value;
     // fields that gate a button or message re-render in place
-    if (['token', 'addCode', 'pass1', 'pass2', 'keySecret', 'apiKey', 'pairName', 'hostname'].includes(k)) render();
+    if (['token', 'addCode', 'pass1', 'pass2', 'keySecret', 'apiKey', 'pairName', 'hostname', 'licq'].includes(k)) render();
   });
   document.addEventListener('change', (ev) => {
     const k = ev.target.dataset && ev.target.dataset.k;
     if (k === 'zone') { M.f.zone = ev.target.value; render(); }
   });
   document.addEventListener('keydown', (ev) => { if (ev.key === 'Escape' && M.dlg) { ACT.close(); render(); } });
+  if (H.other === '1') M.other = true;
+  if (H.coreMode) M.coreMode = H.coreMode;
+  if (H.lic) M.licOpen.add(H.lic);
   writeHash();
   render();
 })();

diff --git a/design/remote-and-settings/style.css b/design/remote-and-settings/style.css
@@ -346,3 +346,34 @@ body.still * { animation: none !important; }
 .phone .dialog footer .grow { justify-content: center; }
 .phone .dialog .dbody { max-height: 62vh; overflow: auto; }
 .phone .dialog > header { padding-right: 8px; }
+
+/* Settings: Models cards */
+.pcard { border: 1px solid var(--seam); border-radius: var(--r-ctl); background: var(--surface2); margin-bottom: 12px; overflow: hidden; }
+.pcard-h { display: flex; align-items: flex-start; gap: 10px; padding: 10px 12px; border-bottom: 1px solid var(--seam); background: var(--raised); flex-wrap: wrap; }
+.pcard-h .grow { flex: 1 1 200px; min-width: 0; }
+.pcard-h .t { font-weight: 600; font-size: 14px; }
+.mrow { display: flex; align-items: center; gap: 12px; padding: 4px 12px; min-height: 44px; border-bottom: 1px solid var(--seam-subtle); }
+.mrow:last-child { border-bottom: 0; }
+.mrow:hover { background: var(--hover); }
+.mcol { width: 124px; flex: none; display: flex; justify-content: flex-end; }
+.desktop .mrow .mk { opacity: 0; }
+.desktop .mrow:hover .mk, .desktop .mrow:focus-within .mk, .desktop .mrow .mk:focus-visible { opacity: 1; }
+.phone .mk { opacity: 1; }
+.notice.info { background: var(--info); border-left-color: var(--info-ink); }
+.suffixbtn { border-radius: 0 var(--r-md) var(--r-md) 0; min-height: 32px; }
+.lic { border-bottom: 1px solid var(--seam-subtle); }
+.lic-h { display: flex; align-items: center; gap: 10px; width: 100%; min-height: 44px; padding: 6px 4px; border: 0; background: transparent; text-align: left; }
+.lic-h:hover { background: var(--hover); }
+.lic-h .grow { flex: 1; min-width: 0; }
+.lictext { margin: 0 0 10px; padding: 10px 12px; white-space: pre-wrap; font: 400 12px/18px var(--mono); background: var(--code); border: 1px solid var(--seam); border-radius: var(--r-field); max-height: 240px; overflow: auto; }
+
+/* Phone: chats home, host bottom sheet */
+.newbar { position: relative; padding: 10px 16px 40px; border-top: 1px solid var(--seam-subtle); flex: none; background: var(--surface); }
+.newbar .homebar { position: absolute; left: 0; right: 0; bottom: 0; height: 30px; }
+.topbar .sub .off { color: var(--muted); font-weight: 600; display: inline-flex; gap: 6px; align-items: center; }
+.bsheet { position: absolute; z-index: 11; left: 0; right: 0; bottom: 0; background: var(--raised); border-top: 1px solid var(--thread); border-radius: 18px 18px 0 0; transform: translateY(102%); transition: transform var(--sheet) var(--ease); padding-top: 4px; box-shadow: var(--seam-shadow-hover); }
+.show-sheet .bsheet { transform: none; }
+.bsheet-h { display: flex; align-items: center; justify-content: space-between; padding: 6px 8px 6px 16px; }
+.bsheet-h .t { font-weight: 600; font-size: 16px; }
+.host-line .ck { margin-left: auto; color: var(--ok-ink); }
+.mrow .grow { flex: 1; min-width: 0; }
